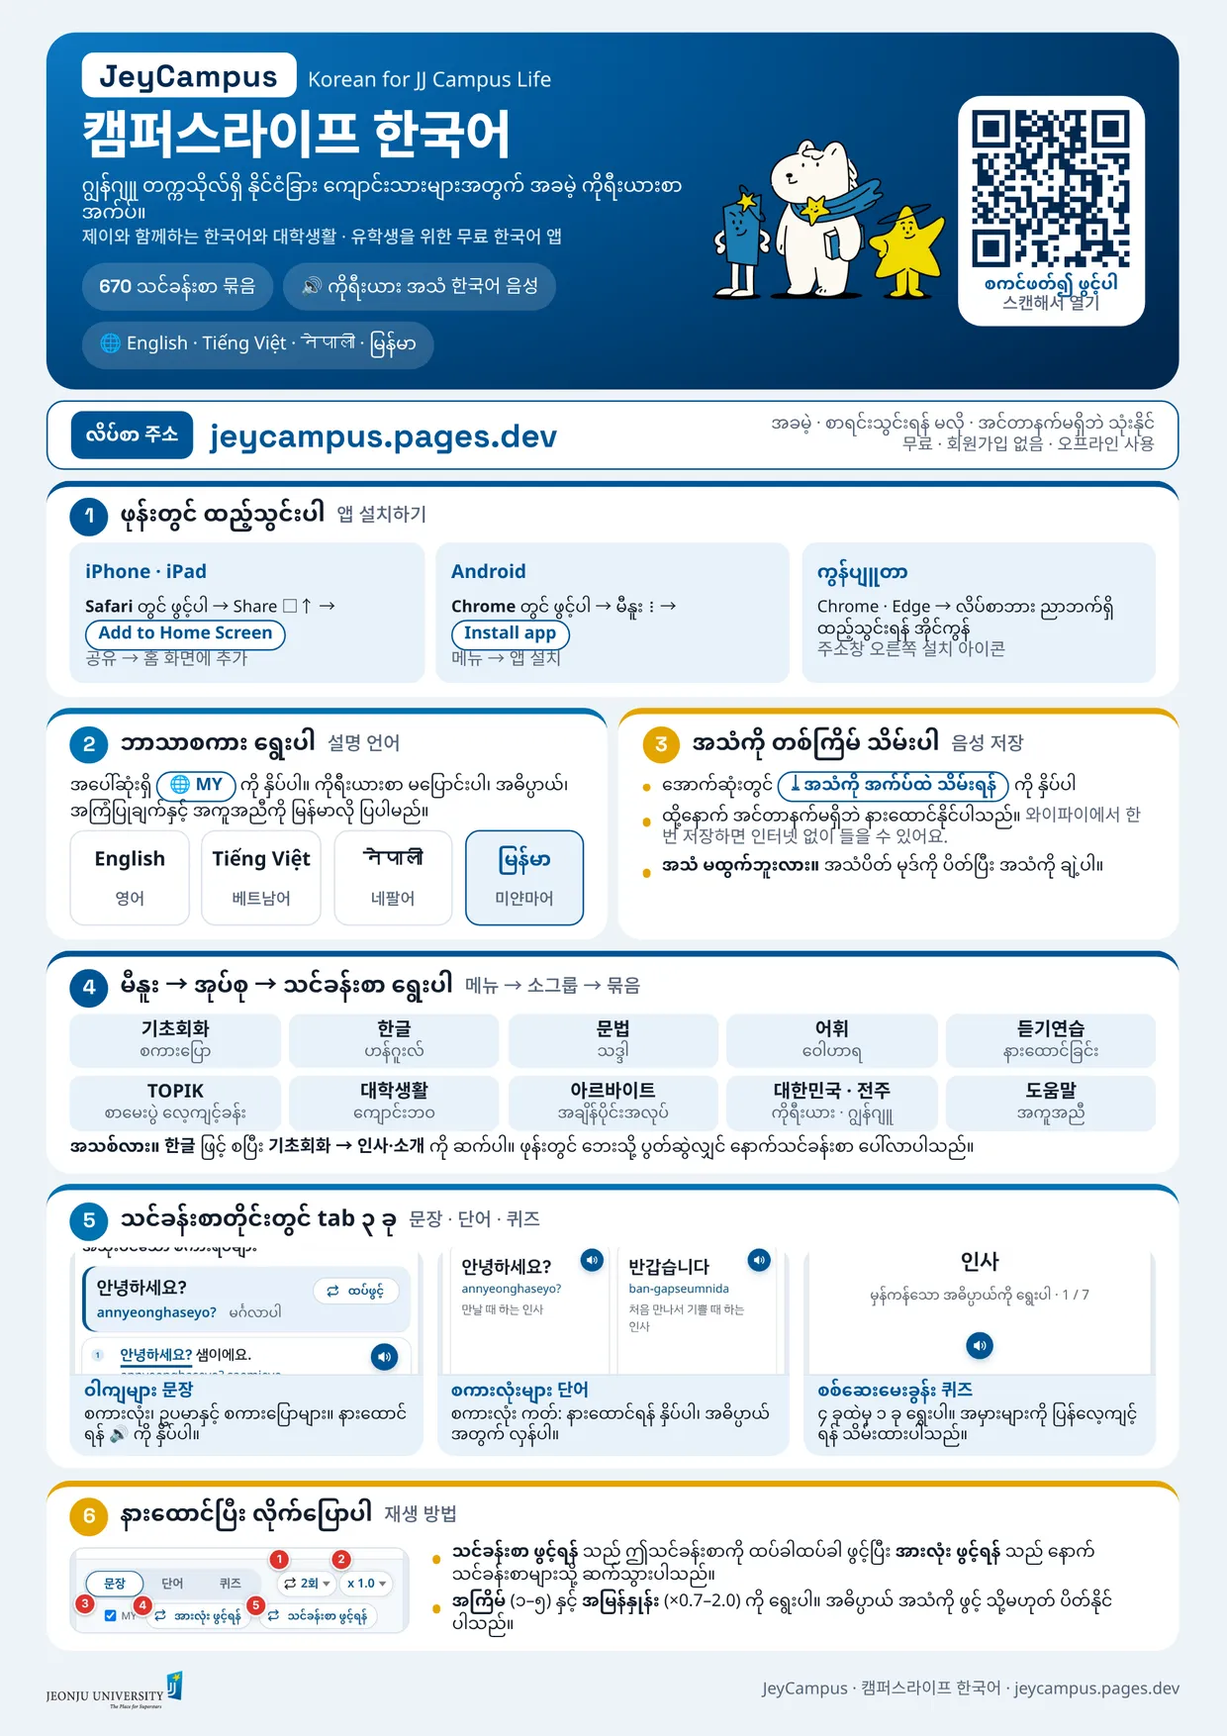
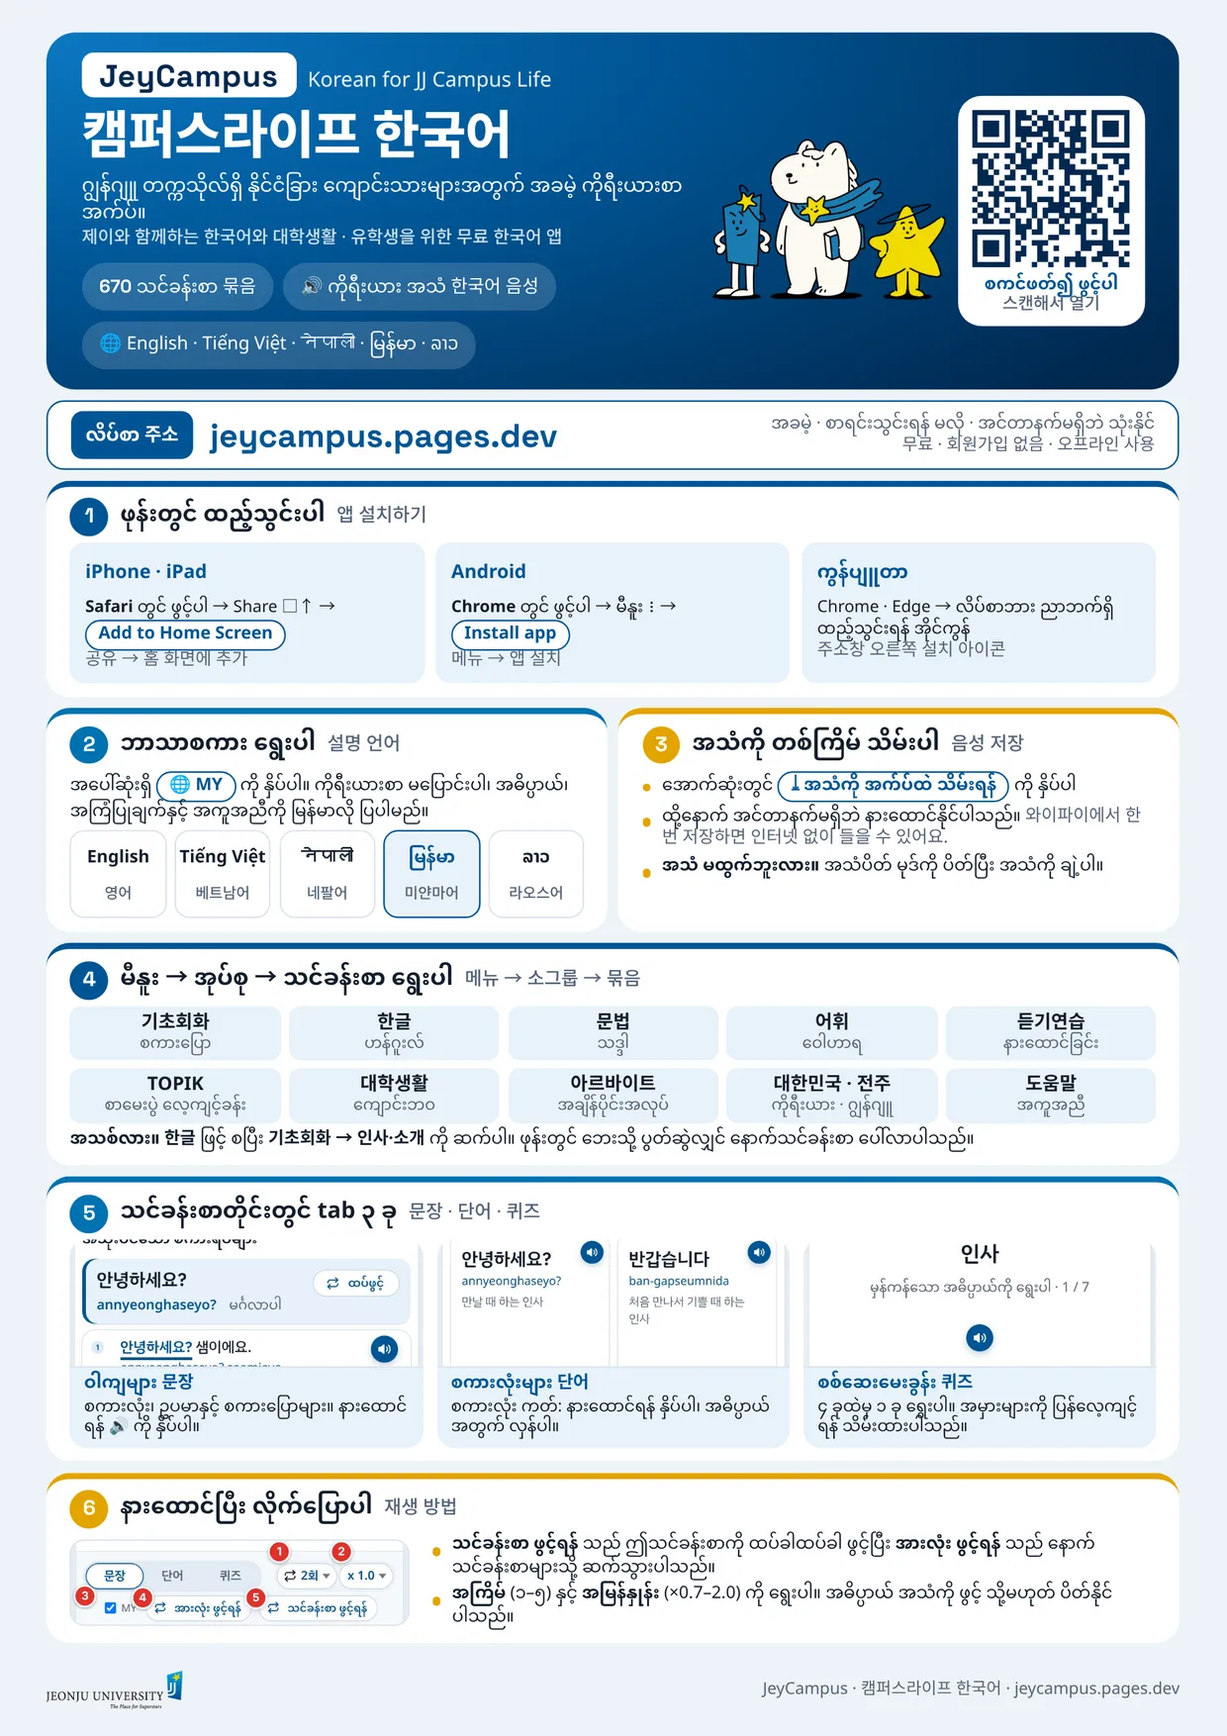
Lao: font, TTS voice, poster, intro (WIP)
Claude-Session: https://claude.ai/code/session_01FbeTC7VgZEwLzfSpfGCM6D

Changed region(s): [[0.0306, 0.4618, 0.95, 0.9544], [0.8274, 0.5849, 0.8887, 0.6465], [0.3371, 0.1847, 0.3984, 0.2155]]

diff --git a/src/i18n/lo/info/HP-A-01.html b/src/i18n/lo/info/HP-A-01.html
@@ -1,1 +1,1 @@
-<h2>ແອັບນີ້ແມ່ນຫຍັງ?</h2><div class="sub2 ko">이 앱은</div><figure class="shot poster"><a href="img/help/poster-en.webp" target="_blank" rel="noopener"><img src="img/help/poster-en.webp" width="1240" height="1754" loading="lazy" alt="JeyCampus poster"></a><figcaption>ໂປສເຕີ: JeyCampus ໃນພາບດຽວ. ແຕະເພື່ອເປີດຂະໜາດເຕັມ. <span class="ko">포스터</span></figcaption></figure><h3>ສຳລັບໃຜ</h3><p>JeyCampus ແມ່ນແອັບຮຽນພາສາເກົາຫຼີສຳລັບນັກສຶກສາຕ່າງປະເທດໃນສາຍພາສາອັງກິດຂອງມະຫາວິທະຍາໄລຈອນຈູ <span class="ko">영어 트랙 유학생을 위한 한국어 앱</span>. ຄຳອະທິບາຍເປັນພາສາລາວ ໂດຍມີພາສາເກົາຫຼີຢູ່ຂ້າງໆ.</p><h3>ພົບກັບເຈເຈ <span class="ko">제이제이와 친구들</span></h3><figure class="shot jeyfig"><img src="img/jey/friends.webp" width="900" height="618" loading="lazy" alt="Jate, JeyJey and Byeori"><figcaption>ເຈດ <span class="ko">제이트</span> · ເຈເຈ <span class="ko">제이제이</span> · ບຽວລີ <span class="ko">별이</span>: ຕົວລະຄອນຂອງມະຫາວິທະຍາໄລຈອນຈູ</figcaption></figure><p>ເຈເຈຮຽນພາສາເກົາຫຼີ ແລະ ຊີວິດໃນວິທະຍາເຂດໄປພ້ອມກັບເຈົ້າ. ເຈເຈໃຫ້ກຳລັງໃຈຫຼັງແບບທົດສອບ ແລະ ບຽວລີກັບເຈດກໍຊ່ວຍນຳ. <span class="ko">제이제이가 함께 공부하고 응원해요.</span></p><h3>ມະຫາວິທະຍາໄລຈອນຈູ <span class="ko">전주대학교</span></h3><figure class="shot jjulogo"><img class="lg-l" src="img/jju/logo_en_t.png" width="250" height="70" loading="lazy" alt="Jeonju University, The Place for Superstars"><img class="lg-d" src="img/jju/logo_en_d.png" width="250" height="70" loading="lazy" alt="Jeonju University, The Place for Superstars"></figure><p>ມະຫາວິທະຍາໄລຈອນຈູເອີ້ນຕົນເອງວ່າ <b>JJ University</b>, “ບ່ອນສຳລັບຊຸບເປີສະຕາ” <span class="ko">수퍼스타를 키우는 곳</span>. ສັນຍາລັກແມ່ນສີ່ຫຼ່ຽມ ແລະ ດາວ: ນັກສຶກສາທຸກຄົນເປັນຊຸບເປີສະຕາໄດ້. ເຈົ້າຈະເຫັນດາວທົ່ວວິທະຍາເຂດ: ຫໍພັກຊື່ Star Tower, Star Ville ແລະ Star Home, ແລະ ເຈເຈກໍໃສ່ດາວຄືກັນ. <span class="ko">학생 한 사람 한 사람이 수퍼스타가 되는 곳이에요.</span></p><h3>ວິທີຮຽນ</h3><p>ເນື້ອໃນແບ່ງເປັນ <b>ບົດຮຽນ</b> ນ້ອຍໆຕາມຫົວຂໍ້. ແຕ່ລະບົດມີຄຳສັບ, ປະໂຫຍກຕົວຢ່າງ, ບົດສົນທະນາສັ້ນ ແລະ ຄຳຖາມທົບທວນ. ຟັງ, ເບິ່ງບັດຄຳສັບ ແລ້ວທົດສອບຕົນເອງ.</p><h3>ໃຊ້ໄດ້ທຸກບ່ອນ</h3><p>ໃຊ້ໄດ້ທັງໂທລະສັບ ແລະ ຄອມພິວເຕີ. ບັນທຶກສຽງໄວ້ໃນເຄື່ອງ ແລ້ວຟັງໄດ້ໂດຍບໍ່ມີອິນເຕີເນັດ.</p><h3>ຕິດຕັ້ງແອັບ <span class="ko">앱 설치하기</span></h3><p>JeyCampus ແມ່ນເວັບແອັບ: ບໍ່ມີໃນແອັບສະໂຕ. ເປີດທີ່ຢູ່ເທື່ອໜຶ່ງ ແລ້ວເພີ່ມໃສ່ໜ້າຈໍຫຼັກ. ຈາກນັ້ນມັນຈະເປີດຈາກໄອຄອນຂອງມັນເອງ ເຕັມຈໍ ຄືແອັບອື່ນໆ. <span class="ko">주소를 한 번 열고 홈 화면에 추가하면 앱처럼 쓸 수 있어요.</span></p><p class="addr">ທີ່ຢູ່ <span class="ko">주소</span> <a href="https://jeycampus.pages.dev/">jeycampus.pages.dev</a></p><div class="inst"><div><b>iPhone · iPad</b> <span class="ko">(Safari)</span><ol><li>ເປີດທີ່ຢູ່ໃນ <b>Safari</b>.</li><li>ແຕະປຸ່ມ <b>ແບ່ງປັນ</b> <span class="ko">공유</span> (□ ທີ່ມີລູກສອນ ↑).</li><li>ແຕະ <b>ເພີ່ມໃສ່ໜ້າຈໍຫຼັກ</b> <span class="ko">홈 화면에 추가</span>, ແລ້ວ <b>ເພີ່ມ</b> <span class="ko">추가</span>.</li></ol></div><div><b>Android</b> <span class="ko">(Chrome)</span><ol><li>ເປີດທີ່ຢູ່ໃນ <b>Chrome</b>.</li><li>ແຕະເມນູ <b>⋮</b> ຢູ່ມຸມຂວາເທິງ.</li><li>ແຕະ <b>ຕິດຕັ້ງແອັບ</b> <span class="ko">앱 설치</span> ຫຼື <b>ເພີ່ມໃສ່ໜ້າຈໍຫຼັກ</b> <span class="ko">홈 화면에 추가</span>, ແລ້ວ <b>ຕິດຕັ້ງ</b> <span class="ko">설치</span>.</li></ol></div><div><b>Computer</b> <span class="ko">(Chrome · Edge)</span><ol><li>ເປີດທີ່ຢູ່.</li><li>ຄລິກໄອຄອນຕິດຕັ້ງຢູ່ທ້າຍຂວາຂອງແຖບທີ່ຢູ່ ຫຼື ເປີດເມນູ ⋮ ແລ້ວເລືອກ <b>ຕິດຕັ້ງ JeyCampus</b> <span class="ko">설치</span>.</li></ol></div></div><p>ຫຼັງຕິດຕັ້ງ ແຕະ <b>⤓ ບັນທຶກສຽງໄວ້ໃນແອັບ</b> <span class="ko">음성 앱에 저장</span> ຢູ່ລຸ່ມສຸດຂອງໜ້າເທື່ອໜຶ່ງ. ຈາກນັ້ນຟັງໄດ້ໂດຍບໍ່ມີອິນເຕີເນັດ. <span class="ko">설치한 뒤 맨 아래의 음성 저장을 한 번 눌러 두세요.</span></p>
+<h2>ແອັບນີ້ແມ່ນຫຍັງ?</h2><div class="sub2 ko">이 앱은</div><figure class="shot poster"><a href="img/help/poster-lo.webp" target="_blank" rel="noopener"><img src="img/help/poster-lo.webp" width="1240" height="1754" loading="lazy" alt="JeyCampus poster"></a><figcaption>ໂປສເຕີ: JeyCampus ໃນພາບດຽວ. ແຕະເພື່ອເປີດຂະໜາດເຕັມ. <span class="ko">포스터</span></figcaption></figure><h3>ສຳລັບໃຜ</h3><p>JeyCampus ແມ່ນແອັບຮຽນພາສາເກົາຫຼີສຳລັບນັກສຶກສາຕ່າງປະເທດໃນສາຍພາສາອັງກິດຂອງມະຫາວິທະຍາໄລຈອນຈູ <span class="ko">영어 트랙 유학생을 위한 한국어 앱</span>. ຄຳອະທິບາຍເປັນພາສາລາວ ໂດຍມີພາສາເກົາຫຼີຢູ່ຂ້າງໆ.</p><h3>ພົບກັບເຈເຈ <span class="ko">제이제이와 친구들</span></h3><figure class="shot jeyfig"><img src="img/jey/friends.webp" width="900" height="618" loading="lazy" alt="Jate, JeyJey and Byeori"><figcaption>ເຈດ <span class="ko">제이트</span> · ເຈເຈ <span class="ko">제이제이</span> · ບຽວລີ <span class="ko">별이</span>: ຕົວລະຄອນຂອງມະຫາວິທະຍາໄລຈອນຈູ</figcaption></figure><p>ເຈເຈຮຽນພາສາເກົາຫຼີ ແລະ ຊີວິດໃນວິທະຍາເຂດໄປພ້ອມກັບເຈົ້າ. ເຈເຈໃຫ້ກຳລັງໃຈຫຼັງແບບທົດສອບ ແລະ ບຽວລີກັບເຈດກໍຊ່ວຍນຳ. <span class="ko">제이제이가 함께 공부하고 응원해요.</span></p><h3>ມະຫາວິທະຍາໄລຈອນຈູ <span class="ko">전주대학교</span></h3><figure class="shot jjulogo"><img class="lg-l" src="img/jju/logo_en_t.png" width="250" height="70" loading="lazy" alt="Jeonju University, The Place for Superstars"><img class="lg-d" src="img/jju/logo_en_d.png" width="250" height="70" loading="lazy" alt="Jeonju University, The Place for Superstars"></figure><p>ມະຫາວິທະຍາໄລຈອນຈູເອີ້ນຕົນເອງວ່າ <b>JJ University</b>, “ບ່ອນສຳລັບຊຸບເປີສະຕາ” <span class="ko">수퍼스타를 키우는 곳</span>. ສັນຍາລັກແມ່ນສີ່ຫຼ່ຽມ ແລະ ດາວ: ນັກສຶກສາທຸກຄົນເປັນຊຸບເປີສະຕາໄດ້. ເຈົ້າຈະເຫັນດາວທົ່ວວິທະຍາເຂດ: ຫໍພັກຊື່ Star Tower, Star Ville ແລະ Star Home, ແລະ ເຈເຈກໍໃສ່ດາວຄືກັນ. <span class="ko">학생 한 사람 한 사람이 수퍼스타가 되는 곳이에요.</span></p><h3>ວິທີຮຽນ</h3><p>ເນື້ອໃນແບ່ງເປັນ <b>ບົດຮຽນ</b> ນ້ອຍໆຕາມຫົວຂໍ້. ແຕ່ລະບົດມີຄຳສັບ, ປະໂຫຍກຕົວຢ່າງ, ບົດສົນທະນາສັ້ນ ແລະ ຄຳຖາມທົບທວນ. ຟັງ, ເບິ່ງບັດຄຳສັບ ແລ້ວທົດສອບຕົນເອງ.</p><h3>ໃຊ້ໄດ້ທຸກບ່ອນ</h3><p>ໃຊ້ໄດ້ທັງໂທລະສັບ ແລະ ຄອມພິວເຕີ. ບັນທຶກສຽງໄວ້ໃນເຄື່ອງ ແລ້ວຟັງໄດ້ໂດຍບໍ່ມີອິນເຕີເນັດ.</p><h3>ຕິດຕັ້ງແອັບ <span class="ko">앱 설치하기</span></h3><p>JeyCampus ແມ່ນເວັບແອັບ: ບໍ່ມີໃນແອັບສະໂຕ. ເປີດທີ່ຢູ່ເທື່ອໜຶ່ງ ແລ້ວເພີ່ມໃສ່ໜ້າຈໍຫຼັກ. ຈາກນັ້ນມັນຈະເປີດຈາກໄອຄອນຂອງມັນເອງ ເຕັມຈໍ ຄືແອັບອື່ນໆ. <span class="ko">주소를 한 번 열고 홈 화면에 추가하면 앱처럼 쓸 수 있어요.</span></p><p class="addr">ທີ່ຢູ່ <span class="ko">주소</span> <a href="https://jeycampus.pages.dev/">jeycampus.pages.dev</a></p><div class="inst"><div><b>iPhone · iPad</b> <span class="ko">(Safari)</span><ol><li>ເປີດທີ່ຢູ່ໃນ <b>Safari</b>.</li><li>ແຕະປຸ່ມ <b>ແບ່ງປັນ</b> <span class="ko">공유</span> (□ ທີ່ມີລູກສອນ ↑).</li><li>ແຕະ <b>ເພີ່ມໃສ່ໜ້າຈໍຫຼັກ</b> <span class="ko">홈 화면에 추가</span>, ແລ້ວ <b>ເພີ່ມ</b> <span class="ko">추가</span>.</li></ol></div><div><b>Android</b> <span class="ko">(Chrome)</span><ol><li>ເປີດທີ່ຢູ່ໃນ <b>Chrome</b>.</li><li>ແຕະເມນູ <b>⋮</b> ຢູ່ມຸມຂວາເທິງ.</li><li>ແຕະ <b>ຕິດຕັ້ງແອັບ</b> <span class="ko">앱 설치</span> ຫຼື <b>ເພີ່ມໃສ່ໜ້າຈໍຫຼັກ</b> <span class="ko">홈 화면에 추가</span>, ແລ້ວ <b>ຕິດຕັ້ງ</b> <span class="ko">설치</span>.</li></ol></div><div><b>Computer</b> <span class="ko">(Chrome · Edge)</span><ol><li>ເປີດທີ່ຢູ່.</li><li>ຄລິກໄອຄອນຕິດຕັ້ງຢູ່ທ້າຍຂວາຂອງແຖບທີ່ຢູ່ ຫຼື ເປີດເມນູ ⋮ ແລ້ວເລືອກ <b>ຕິດຕັ້ງ JeyCampus</b> <span class="ko">설치</span>.</li></ol></div></div><p>ຫຼັງຕິດຕັ້ງ ແຕະ <b>⤓ ບັນທຶກສຽງໄວ້ໃນແອັບ</b> <span class="ko">음성 앱에 저장</span> ຢູ່ລຸ່ມສຸດຂອງໜ້າເທື່ອໜຶ່ງ. ຈາກນັ້ນຟັງໄດ້ໂດຍບໍ່ມີອິນເຕີເນັດ. <span class="ko">설치한 뒤 맨 아래의 음성 저장을 한 번 눌러 두세요.</span></p>

diff --git a/src/intro.js b/src/intro.js
@@ -148,7 +148,7 @@ function steps(dev){ const x = t(), k = os[dev] === "atab" ? "android" : os[dev]
 function detectChip(dev){ const x = t(); const name = {phone:{ios:"iPhone · Safari",android:"Android · Chrome"},pad:{ipad:"iPad · Safari",atab:"Android tablet"},pc:{chrome:"PC · Chrome/Edge",safari:"Mac · Safari"}}[dev][os[dev]];
   return `<span class="detect"><i>${dev === "pc" ? ICON.pc : ICON.phone}</i>${esc(x.det)}: <b>${name}</b></span>`; }
 function downloads(dev){ const x = t(), ios = (dev === "phone" && os.phone === "ios") || (dev === "pad" && os.pad === "ipad") || (dev === "pc" && os.pc === "safari");
-  const poster = {en:1, vi:1, ne:1, my:1}[lang] ? lang : "en", hasAudio = !!document.getElementById("dlAll") && !document.getElementById("dlbox").hidden;
+  const poster = {en:1, vi:1, ne:1, my:1, lo:1}[lang] ? lang : "en", hasAudio = !!document.getElementById("dlAll") && !document.getElementById("dlbox").hidden;
   return `<div class="dls">
    <div class="dl"><span class="ic"><img src="icon-192.png" alt=""></span><span class="tx"><b>${esc(x.dla)}</b><small>${esc(x.dlad)}</small></span>${standalone ? '<span class="go y">✓</span>' : `<button type="button" class="go y" data-act="${ios ? "how" : "install"}">${esc(ios ? x.seehow : x.inst)}</button>`}</div>
    ${hasAudio ? `<div class="dl"><span class="ic">${ICON.audio}</span><span class="tx"><b>${esc(x.dlv)}</b><small>${esc(x.dlvd.replace("{L}", x.vname))}</small><small class="dlmsg" data-dlmsg></small></span><button type="button" class="go" data-act="audio">${esc(x.save)}</button></div>` : ""}
@@ -243,7 +243,7 @@ function setRate(v){ S.rate = String(v); JC.save(); const e = document.getElemen
    Korean and the meaning (RYU 2026-11-27: the phone's voices ran at different speeds). The meaning voice is the app's language;
    when the intro shows another language (not loaded until Start), the device's voice reads it. */
 const SAMPLE_KO = "웃으면서 인사해요.";
-const SAMPLE_M = {en: "I say hello with a smile.", vi: "Tôi mỉm cười chào.", ne: "म मुस्कुराउँदै अभिवादन गर्छु।", my: "ပြုံးပြီး နှုတ်ဆက်ပါတယ်။"};
+const SAMPLE_M = {en: "I say hello with a smile.", vi: "Tôi mỉm cười chào.", ne: "म मुस्कुराउँदै अभिवादन गर्छु।", my: "ပြုံးပြီး နှုတ်ဆက်ပါတယ်။", lo: "ທັກທາຍດ້ວຍຮອຍຍິ້ມ."};
 const sampleM = () => SAMPLE_M[lang] || t().sample;
 let playing = false;
 function stopSample(){ if (playing){ playing = false; try { JC.quiet(); } catch (e) {} try { speechSynthesis.cancel(); } catch (e) {} } }

diff --git a/build.js b/build.js
@@ -117,7 +117,7 @@ for (const lg in mlessons){ const L = writePacks(path.join(root, "audio"), mless
   fs.writeFileSync(path.join(root, "audio/index-" + lg + ".js"), "window.AUDIO_LANG=" + JSON.stringify({index: L.index, packs: L.packs}) + ";\n");
   console.log("audio packs " + lg, L.packs.length, "clips", Object.keys(L.index).length); }
 const LANG_JS = `<script>(function(){var l="en";try{l=JSON.parse(localStorage.getItem("kolearn-en-v1")||"{}").lang||"en"}catch(e){}if(!/^(${["en", ...Object.keys(LANGS)].join("|")})$/.test(l))l="en";document.write('<script src="audio/index-'+l+'.js?v=${encodeURIComponent(VER)}"><\\/script>')})()</script>`;
-const fonts = '<link rel="stylesheet" href="https://fonts.googleapis.com/css2?family=Space+Grotesk:wght@500;600;700&family=IBM+Plex+Sans+KR:wght@400;500;600&family=Noto+Sans:wght@400;600&family=Noto+Sans+Devanagari:wght@400;600&family=Noto+Sans+Myanmar:wght@400;600&display=swap">';
+const fonts = '<link rel="stylesheet" href="https://fonts.googleapis.com/css2?family=Space+Grotesk:wght@500;600;700&family=IBM+Plex+Sans+KR:wght@400;500;600&family=Noto+Sans:wght@400;600&family=Noto+Sans+Devanagari:wght@400;600&family=Noto+Sans+Myanmar:wght@400;600&family=Noto+Sans+Lao:wght@400;600&display=swap">';
 
 // standalone site
 fs.writeFileSync(path.join(root, "app.js"), meta + "\nwindow.KO_SW=true;\n" + js);

diff --git a/src/app.css b/src/app.css
@@ -7,7 +7,7 @@
   --accent:var(--k1); --accent-soft:var(--k1-soft); --good:#1E7F4F; --good-soft:#E1F3E9; --bad:#B33A3A; --bad-soft:#FBE8E8;
   --display:"Space Grotesk","IBM Plex Sans KR",system-ui,sans-serif;
   --ko:"IBM Plex Sans KR","Apple SD Gothic Neo","Malgun Gothic","Noto Sans KR",system-ui,sans-serif;
-  --lao:"Noto Sans","Noto Sans Devanagari","Noto Sans Myanmar","IBM Plex Sans KR",system-ui,sans-serif;   /* English text (variable name kept from the Lao app) */
+  --lao:"Noto Sans","Noto Sans Devanagari","Noto Sans Myanmar","Noto Sans Lao","IBM Plex Sans KR",system-ui,sans-serif;   /* English text (variable name kept from the Lao app) */
 }
 @media (prefers-color-scheme: dark){:root:not([data-theme="light"]){
   --bg:#111514; --sheet:#191E1D; --ink:#E8EDEB; --muted:#9BA7A4; --line:#2C3533; --raise:#202725;

diff --git a/tools/tts_gen.py b/tools/tts_gen.py
@@ -6,7 +6,7 @@
   python3 tools/tts_gen.py      # makes only the clips that are missing; safe to stop and run again
   node build.js                 # registers the new clips in audio/index.js
 
-Options:  --lang ko|en|vi|ne|my   only one language      --limit N   stop after N clips      --jobs N   parallel requests (default 4)
+Options:  --lang ko|en|vi|ne|my|lo   only one language      --limit N   stop after N clips      --jobs N   parallel requests (default 4)
 Voices: Korean ko-KR-SunHiNeural, English en-US-AvaNeural. Output: 24 kbps mono mp3 (RYU's choice in the Lao app).
 Needs network access to speech.platform.bing.com. Behind a proxy, HTTPS_PROXY is used automatically.
 """
@@ -19,8 +19,8 @@ if os.path.exists("/root/.ccr/ca-bundle.crt"):   # cloud session proxy: edge-tts
 
 ROOT = os.path.dirname(os.path.dirname(os.path.abspath(__file__)))
 AUDIO = os.path.join(ROOT, "audio")
-VOICE = {"ko": "ko-KR-SunHiNeural", "en": "en-US-AvaNeural", "km": "ko-KR-InJoonNeural", "vi": "vi-VN-HoaiMyNeural", "ne": "ne-NP-HemkalaNeural", "my": "my-MM-NilarNeural"}   # km: 남자 lines of TOPIK listening questions
-BITRATE = {"ko": "16k", "en": "16k", "km": "16k", "vi": "16k", "ne": "16k", "my": "16k"}   # both 16k (RYU 2026-11-16; 8k sounded bad)
+VOICE = {"ko": "ko-KR-SunHiNeural", "en": "en-US-AvaNeural", "km": "ko-KR-InJoonNeural", "vi": "vi-VN-HoaiMyNeural", "ne": "ne-NP-HemkalaNeural", "my": "my-MM-NilarNeural", "lo": "lo-LA-KeomanyNeural"}   # km: 남자 lines of TOPIK listening questions
+BITRATE = {"ko": "16k", "en": "16k", "km": "16k", "vi": "16k", "ne": "16k", "my": "16k", "lo": "16k"}   # both 16k (RYU 2026-11-16; 8k sounded bad)
 VOWEL = dict(zip("ㅏㅐㅑㅒㅓㅔㅕㅖㅗㅘㅙㅚㅛㅜㅝㅞㅟㅠㅡㅢㅣ", "아애야얘어에여예오와왜외요우워웨위유으의이"))
 
 
@@ -65,7 +65,7 @@ async def make(clip, sem, proxy, failed):
 
 async def main():
     ap = argparse.ArgumentParser()
-    ap.add_argument("--lang", choices=["ko", "en", "km", "vi", "ne", "my"])
+    ap.add_argument("--lang", choices=["ko", "en", "km", "vi", "ne", "my", "lo"])
     ap.add_argument("--limit", type=int, default=0)
     ap.add_argument("--jobs", type=int, default=4)
     a = ap.parse_args()
@@ -74,6 +74,7 @@ async def main():
     # Nepali: skip English fallback text (menus not yet translated), which the Nepali voice would read badly
     todo = [c for c in todo if c["lang"] != "ne" or re.search("[\u0900-\u097F]", c["text"])]
     todo = [c for c in todo if c["lang"] != "my" or re.search("[\u1000-\u109F]", c["text"])]
+    todo = [c for c in todo if c["lang"] != "lo" or re.search("[\u0E80-\u0EFF]", c["text"])]
     if a.limit:
         todo = todo[: a.limit]
     print(f"{len(clips)} clips in the list, {len(todo)} to make")
